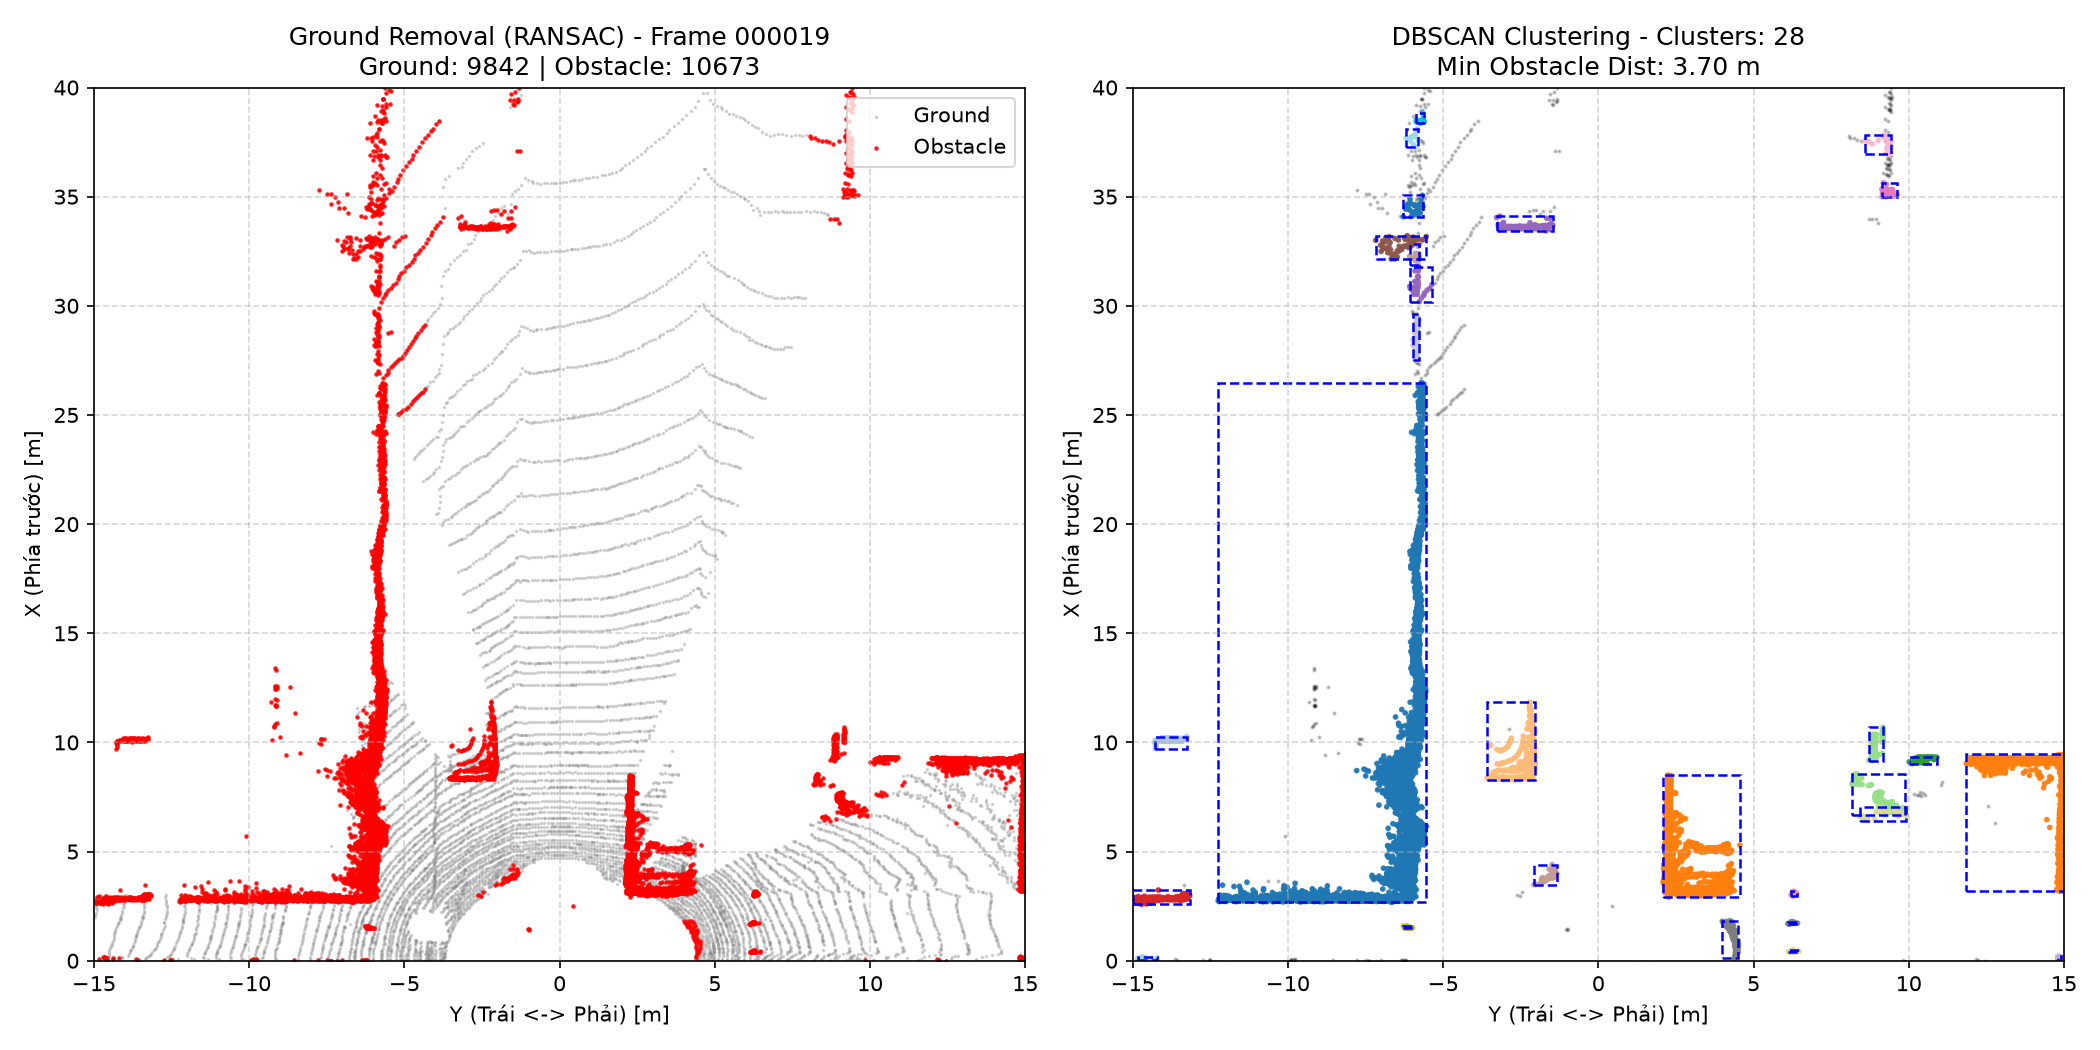
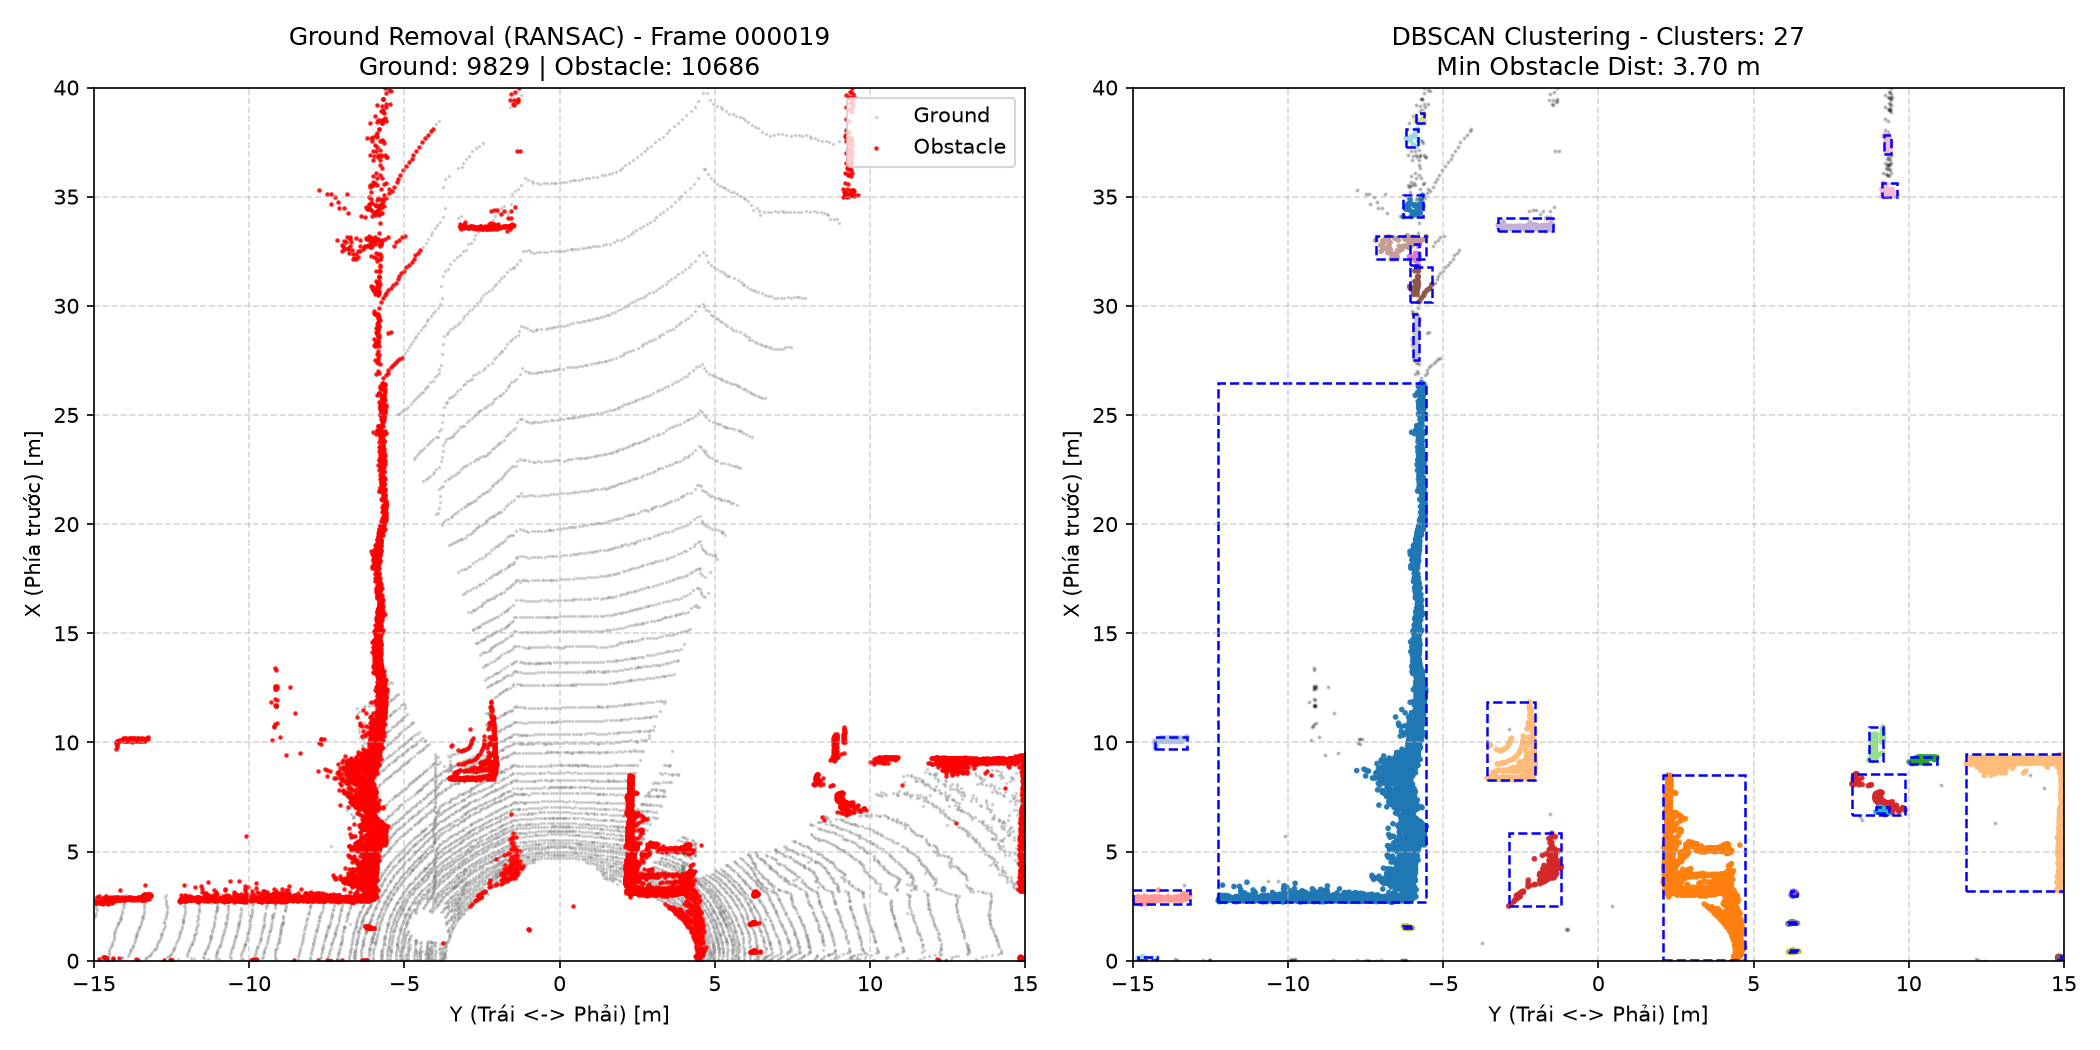
CP3: benchmark results

diff --git a/src/exp_obstacle_sweep.py b/src/exp_obstacle_sweep.py
@@ -1,0 +1,138 @@
+"""Topic D: Benchmark ảnh hưởng của distance_threshold trong RANSAC đến phát hiện vật cản.
+
+Đo: số cụm (clusters), số điểm vật cản, khoảng cách gần nhất (min_dist), và Latency p50/p95 (20 lần).
+Chạy từ gốc repo:
+    python -m src.exp_obstacle_sweep --data-root data/kitti_mini --frames 000019 000011 000008
+"""
+from __future__ import annotations
+
+import argparse
+import csv
+from pathlib import Path
+import time
+import numpy as np
+import open3d as o3d
+
+from starter.datasets import load_frame
+
+
+def run_pipeline_single(pts_down: np.ndarray, distance_threshold: float,
+                        eps: float = 0.5, min_points: int = 10) -> tuple[int, int, int, float]:
+    """Thực hiện RANSAC + DBSCAN trên đám mây điểm đã voxelize."""
+    pcd = o3d.geometry.PointCloud()
+    pcd.points = o3d.utility.Vector3dVector(pts_down)
+    
+    # 1. RANSAC plane segmentation
+    plane_model, inliers = pcd.segment_plane(
+        distance_threshold=distance_threshold,
+        ransac_n=3,
+        num_iterations=800
+    )
+    ground_count = len(inliers)
+    obstacle_pcd = pcd.select_by_index(inliers, invert=True)
+    pts_obs = np.asarray(obstacle_pcd.points)
+    obstacle_count = len(pts_obs)
+    
+    # 2. DBSCAN clustering
+    num_clusters = 0
+    min_dist = 0.0
+    if obstacle_count >= min_points:
+        labels = np.array(obstacle_pcd.cluster_dbscan(eps=eps, min_points=min_points, print_progress=False))
+        unique_labels = [lbl for lbl in np.unique(labels) if lbl >= 0]
+        num_clusters = len(unique_labels)
+        
+        # Tìm khoảng cách vật cản gần nhất tới robot (gốc toạ độ 0, 0)
+        dists = np.linalg.norm(pts_obs[:, :2], axis=1)
+        if len(dists) > 0:
+            min_dist = float(np.min(dists))
+            
+    return ground_count, obstacle_count, num_clusters, min_dist
+
+
+def measure_benchmark(points_xyz: np.ndarray, distance_threshold: float,
+                      voxel_size: float = 0.1, eps: float = 0.5, min_points: int = 10,
+                      warmup_runs: int = 2, timed_runs: int = 20) -> dict:
+    """Đo số liệu và đo latency p50/p95 chuẩn rubric."""
+    # Lọc ROI
+    valid = np.isfinite(points_xyz).all(axis=1)
+    pts = points_xyz[valid]
+    in_roi = ((pts[:, 0] >= 0.0) & (pts[:, 0] <= 40.0) &
+              (pts[:, 1] >= -15.0) & (pts[:, 1] <= 15.0) &
+              (pts[:, 2] >= -2.5) & (pts[:, 2] <= 1.5))
+    pts_roi = pts[in_roi]
+    
+    pcd_roi = o3d.geometry.PointCloud()
+    pcd_roi.points = o3d.utility.Vector3dVector(pts_roi)
+    pcd_down = pcd_roi.voxel_down_sample(voxel_size=voxel_size)
+    pts_down = np.asarray(pcd_down.points)
+
+    # Warmup runs (bỏ khởi tạo đầu)
+    for _ in range(warmup_runs):
+        _ = run_pipeline_single(pts_down, distance_threshold, eps, min_points)
+
+    # Đo thời gian lặp 20 lần
+    latencies = []
+    ground_cnt = obs_cnt = n_clusters = 0
+    min_distance = 0.0
+    for _ in range(timed_runs):
+        t0 = time.perf_counter()
+        ground_cnt, obs_cnt, n_clusters, min_distance = run_pipeline_single(
+            pts_down, distance_threshold, eps, min_points
+        )
+        t1 = time.perf_counter()
+        latencies.append((t1 - t0) * 1000.0)  # ms
+
+    p50 = float(np.percentile(latencies, 50))
+    p95 = float(np.percentile(latencies, 95))
+
+    return {
+        "downsampled_pts": len(pts_down),
+        "ground_pts": ground_cnt,
+        "obstacle_pts": obs_cnt,
+        "num_clusters": n_clusters,
+        "min_dist_m": round(min_distance, 2),
+        "latency_p50_ms": round(p50, 2),
+        "latency_p95_ms": round(p95, 2)
+    }
+
+
+def main():
+    parser = argparse.ArgumentParser(description="Sweep RANSAC distance threshold")
+    parser.add_argument("--data-root", default="data/kitti_mini")
+    parser.add_argument("--frames", nargs="+", default=["000019", "000011", "000008"])
+    parser.add_argument("--dist-thresholds", nargs="+", type=float, default=[0.15, 0.20, 0.25, 0.30, 0.35])
+    parser.add_argument("--out", default="results/obstacle_benchmark.csv")
+    args = parser.parse_args()
+
+    # Cố định seed cho tính lặp lại (reproducibility)
+    np.random.seed(42)
+
+    rows = []
+    print(f"{'Frame':<8} | {'Thresh':<6} | {'Obs Pts':<8} | {'Clusters':<8} | {'Min Dist':<8} | {'p50 (ms)':<8}")
+    print("-" * 60)
+    for frame in args.frames:
+        fr = load_frame(args.data_root, frame)
+        pts_raw = fr["points"][:, :3]
+        for dist_th in args.dist_thresholds:
+            metrics = measure_benchmark(pts_raw, distance_threshold=dist_th)
+            row = {
+                "dataset": Path(args.data_root).name,
+                "frame": frame,
+                "dist_thresh_m": dist_th,
+                **metrics
+            }
+            rows.append(row)
+            print(f"{frame:<8} | {dist_th:<6.2f} | {metrics['obstacle_pts']:<8} | "
+                  f"{metrics['num_clusters']:<8} | {metrics['min_dist_m']:<8.2f} | {metrics['latency_p50_ms']:<8.2f}")
+
+    out_path = Path(args.out)
+    out_path.parent.mkdir(parents=True, exist_ok=True)
+    with open(out_path, "w", newline="", encoding="utf-8") as f:
+        writer = csv.DictWriter(f, fieldnames=list(rows[0].keys()))
+        writer.writeheader()
+        writer.writerows(rows)
+    print(f"\n-> Đã lưu bảng kết quả benchmark: {out_path} ({len(rows)} cấu hình)")
+
+
+if __name__ == "__main__":
+    main()

diff --git a/src/plot_obstacle_sweep.py b/src/plot_obstacle_sweep.py
@@ -1,0 +1,53 @@
+"""Vẽ biểu đồ phân tích thí nghiệm Sweep RANSAC.
+
+Chạy từ gốc repo:
+    python -m src.plot_obstacle_sweep
+"""
+from pathlib import Path
+import matplotlib.pyplot as plt
+import pandas as pd
+
+csv_path = Path("results/obstacle_benchmark.csv")
+if not csv_path.exists():
+    raise FileNotFoundError("Chưa tìm thấy results/obstacle_benchmark.csv. Hãy chạy exp_obstacle_sweep trước!")
+
+df = pd.read_csv(csv_path, dtype={"frame": str})
+
+fig, axes = plt.subplots(1, 3, figsize=(16, 5))
+
+# Plot 1: Số điểm vật cản (Obstacle Points)
+ax1 = axes[0]
+for frame, group in df.groupby("frame"):
+    ax1.plot(group["dist_thresh_m"], group["obstacle_pts"], marker="o", linewidth=1.8, label=f"Frame {frame}")
+ax1.set_title("Số điểm vật cản (Obstacle Points)", fontsize=11, fontweight="bold")
+ax1.set_xlabel("RANSAC distance_threshold (m)")
+ax1.set_ylabel("Số lượng điểm")
+ax1.grid(True, linestyle="--", alpha=0.5)
+ax1.legend()
+
+# Plot 2: Số cụm chướng ngại vật (Clusters)
+ax2 = axes[1]
+for frame, group in df.groupby("frame"):
+    ax2.plot(group["dist_thresh_m"], group["num_clusters"], marker="s", linewidth=1.8, label=f"Frame {frame}")
+ax2.set_title("Số lượng cụm phát hiện (DBSCAN Clusters)", fontsize=11, fontweight="bold")
+ax2.set_xlabel("RANSAC distance_threshold (m)")
+ax2.set_ylabel("Số lượng cụm")
+ax2.grid(True, linestyle="--", alpha=0.5)
+ax2.legend()
+
+# Plot 3: Khoảng cách vật cản gần nhất (Min Distance)
+ax3 = axes[2]
+for frame, group in df.groupby("frame"):
+    ax3.plot(group["dist_thresh_m"], group["min_dist_m"], marker="^", linewidth=1.8, label=f"Frame {frame}")
+ax3.set_title("Khoảng cách tới vật cản gần nhất (m)", fontsize=11, fontweight="bold")
+ax3.set_xlabel("RANSAC distance_threshold (m)")
+ax3.set_ylabel("Min Obstacle Distance (m)")
+ax3.grid(True, linestyle="--", alpha=0.5)
+ax3.legend()
+
+plt.tight_layout()
+out_fig = Path("results/figures/obstacle_sweep.png")
+out_fig.parent.mkdir(parents=True, exist_ok=True)
+plt.savefig(str(out_fig), dpi=150)
+plt.close()
+print(f"-> Đã lưu biểu đồ: {out_fig}")

diff --git a/report/REPORT.md b/report/REPORT.md
@@ -14,13 +14,30 @@
 
 ## 2. Evidence
 
-Bảng hoặc plot số liệu, kèm ảnh/video demo. Ghi rõ đường dẫn file trong `results/`.
+Đánh giá sweep 5 mức `distance_threshold` (0.15m, 0.20m, 0.25m, 0.30m, 0.35m) với `voxel_size=0.1m`, `eps=0.5m`, `min_points=10` trên 3 frame đại diện: `000019` (vật cực gần), `000011` (người đi bộ) và `000008` (đông xe). Độ trễ (latency) được đo qua 20 lần lặp độc lập sau 2 lần warmup (lấy trung vị p50 và phân vị p95).
 
-| Cấu hình / mức perturb | Metric 1 | Metric 2 | Ghi chú |
-|---|---|---|---|
-| [ĐIỀN] | | | |
+File kết quả: `results/obstacle_benchmark.csv`.
 
+| Frame | dist_thresh (m) | Ground Points | Obstacle Points | Clusters | Min Dist (m) | Latency p50 (ms) | Latency p95 (ms) |
+|---|---|---|---|---|---|---|---|
+| **000019** | 0.15 (gốc) | 8,874 | 11,641 | 30 | 1.72 | 109.32 | 136.26 |
+| 000019 | 0.25 | 9,817 | 10,698 | 26 | 1.72 | 90.36 | 103.65 |
+| 000019 | **0.35** | 11,163 | **9,352** (−19.7%) | **26** | 1.72 | **72.85** (−33.4%) | 96.08 |
+| **000011** | 0.15 (gốc) | 9,609 | 10,664 | 45 | 1.57 | 75.01 | 80.10 |
+| 000011 | 0.25 | 10,066 | 10,207 | 44 | 1.57 | 66.56 | 72.04 |
+| 000011 | **0.35** | 10,900 | **9,373** (−12.1%) | **44** | 1.57 | **63.80** (−14.9%) | 69.07 |
+| **000008** | 0.15 (gốc) | 5,116 | 17,459 | 38 | 1.75 | 134.34 | 143.38 |
+| 000008 | 0.25 | 7,033 | 15,542 | 40 | 1.75 | 119.57 | 130.04 |
+| 000008 | **0.35** | 8,939 | **13,636** (−21.9%) | **42** (+10.5%) | 1.75 | **122.55** (−8.8%) | 133.93 |
+
+![obstacle sweep](../results/figures/obstacle_sweep.png)
 ![demo](../results/figures/demo_obstacle_000019.png)
+
+**Nhận xét xu hướng bằng chứng:**
+1. **Sự suy giảm điểm vật cản:** Đúng như Claim, `obstacle_pts` giảm đơn điệu trên cả 3 frame khi tăng ngưỡng mặt phẳng. Thiệt hại nặng nhất là ở Frame 000008 (mất tới 3,823 điểm, tương đương −21.9%) và Frame 000019 (mất 2,289 điểm, tương đương −19.7%) do các phần cấu trúc thấp sát mặt đường (bánh xe, gầm xe, bờ kè) bị gộp nhầm vào mặt phẳng đường.
+2. **Hiện tượng phân mảnh cụm (Cluster Fragmentation):** Thay vì số cụm giảm đều, số cụm tại Frame 000008 lại tăng từ 38 lên 42 ở mức 0.35m. Nguyên nhân do phần chân đế liên kết giữa các phần của một vật thể bị xoá sạch, khiến thuật toán DBSCAN tách một vật thể liên tục thành nhiều cụm rời rạc.
+3. **Tính bất biến của cự ly tối thiểu:** Cự ly tới vật cản gần nhất không thay đổi (1.72m ở frame 19, 1.57m ở frame 11, 1.75m ở frame 8) chứng minh chướng ngại vật sát xe có chiều cao vượt trội so với độ dày mặt phẳng 0.35m.
+4. **Đánh đổi hiệu năng (Latency Trade-off):** Tăng `dist_thresh` giúp lọc bỏ bớt điểm không cần thiết, làm giảm tải thuật toán DBSCAN ($O(N^2)$ / $O(N \log N)$), giúp giảm p50 latency ở Frame 000019 từ 109.32 ms xuống 72.85 ms (cải thiện 33.4% tốc độ xử lý).
 
 ## 3. Failure case
 
@@ -46,6 +63,12 @@ python -m src.test_projection
 
 # 2. Chạy demo phát hiện vật cản (RANSAC + DBSCAN) trên frame 000019
 python -m src.obstacle_detector --data-root data/kitti_mini --frame 000019
+
+# 3. Chạy benchmark sweep 5 mức tham số RANSAC và đo Latency p50/p95
+python -m src.exp_obstacle_sweep --data-root data/kitti_mini --frames 000019 000011 000008
+
+# 4. Vẽ biểu đồ phân tích thí nghiệm CP3
+python -m src.plot_obstacle_sweep
 ```
 
 ## 6. Khai báo sử dụng AI
